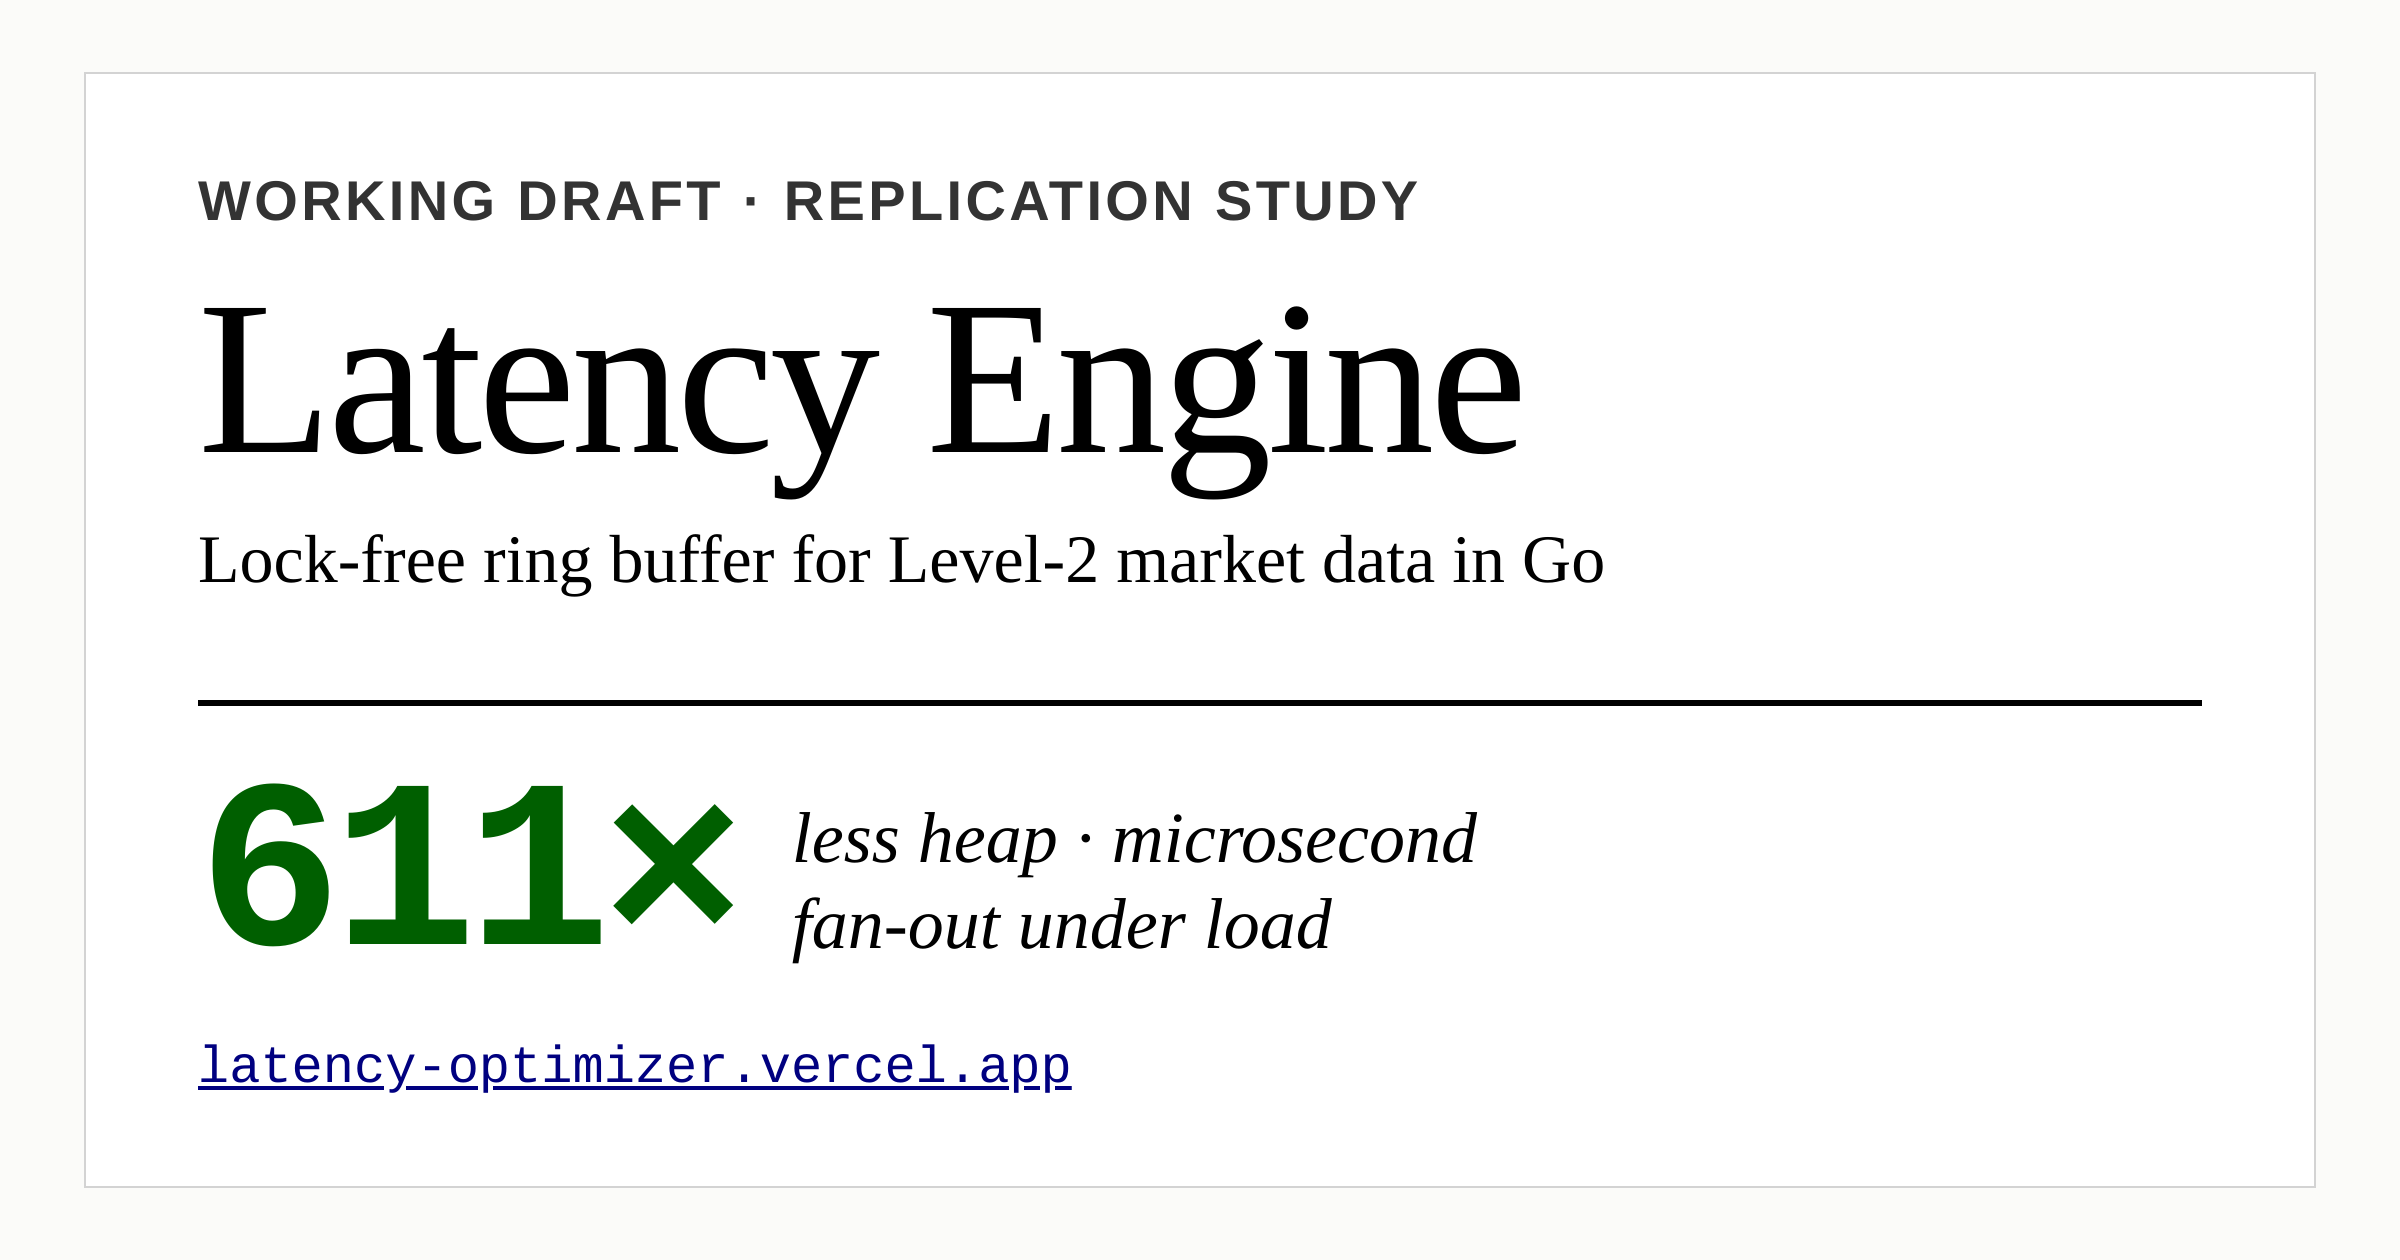
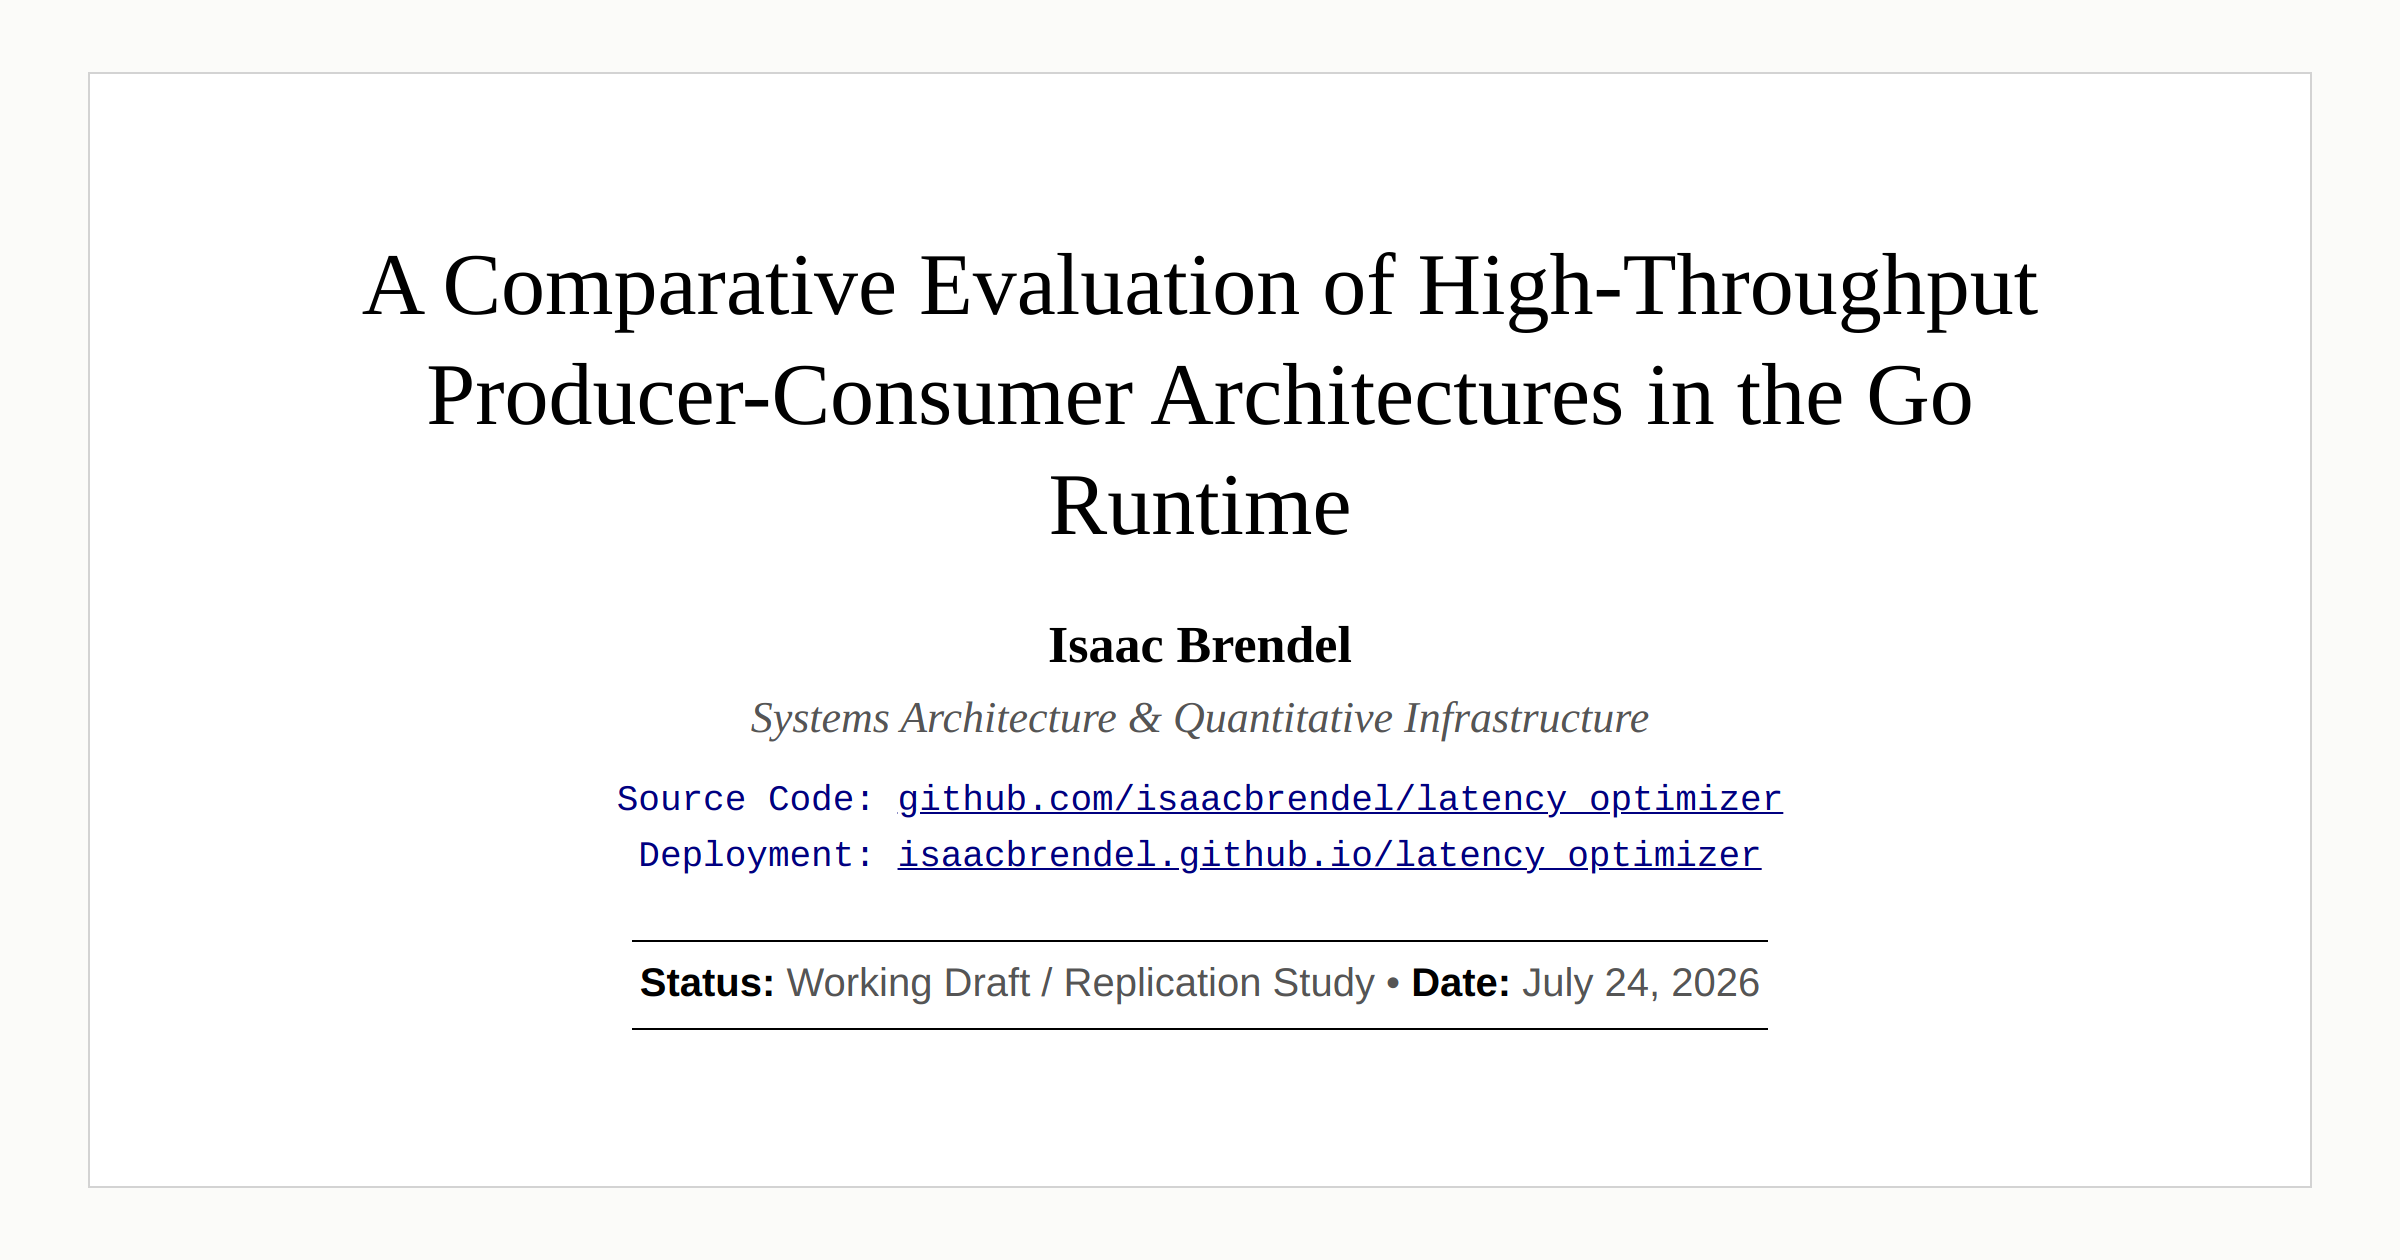
Drop metric figures; match live off-white academic title block
Featured thumb is now the site title plate only — #fbfbf9 page,
white paper, Times hierarchy, blue links, status rule — no 611×
or benchmark grid.

diff --git a/docs/assets/og-compose.html b/docs/assets/og-compose.html
@@ -4,94 +4,104 @@
   <meta charset="UTF-8" />
   <title>Latency Engine — Thumbnail</title>
   <style>
-    * { box-sizing: border-box; margin: 0; padding: 0; }
+    /* Colors sampled from live site via Playwright */
+    :root {
+      --bg-page: #fbfbf9;
+      --bg-paper: #ffffff;
+      --border: #d3d3d3;
+      --ink: #000000;
+      --mute: #555555;
+      --navy: #000080;
+      --font-serif: "Times New Roman", Times, Georgia, serif;
+      --font-sans: "Helvetica Neue", Helvetica, Arial, sans-serif;
+      --font-mono: "Courier New", Courier, Monaco, monospace;
+    }
+    * { box-sizing: border-box; margin: 0; padding: 0; border-radius: 0 !important; box-shadow: none !important; }
     html, body {
       width: 1200px;
       height: 630px;
       overflow: hidden;
-      background: #fbfbf9;
-      color: #000;
-      font-family: "Times New Roman", Times, Georgia, serif;
+      background: var(--bg-page);
+      color: var(--ink);
+      font-family: var(--font-serif);
     }
     .page {
       width: 1200px;
       height: 630px;
-      padding: 36px 42px;
+      padding: 36px 44px;
+      background: var(--bg-page);
+      display: flex;
+      align-items: center;
+      justify-content: center;
     }
     .paper {
       width: 100%;
       height: 100%;
-      background: #fff;
-      border: 1px solid #d3d3d3;
-      padding: 48px 56px 44px;
+      background: var(--bg-paper);
+      border: 1px solid var(--border);
+      padding: 48px 56px;
       display: flex;
       flex-direction: column;
-      justify-content: space-between;
-    }
-    .kicker {
-      font-family: Helvetica, Arial, sans-serif;
-      font-size: 28px;
-      font-weight: 700;
-      letter-spacing: 0.06em;
-      text-transform: uppercase;
-      color: #333;
+      align-items: center;
+      justify-content: center;
+      text-align: center;
     }
     h1 {
-      margin-top: 20px;
-      font-weight: normal;
-      font-size: 110px;
-      line-height: 0.95;
-      letter-spacing: -0.02em;
-    }
-    .sub {
-      margin-top: 18px;
-      font-size: 34px;
+      font-family: var(--font-serif);
+      font-weight: 400;
+      font-size: 44px;
       line-height: 1.25;
-      max-width: 980px;
+      max-width: 920px;
+      color: #000;
+      margin-bottom: 26px;
     }
-    .bottom {
-      border-top: 3px solid #000;
-      padding-top: 28px;
-      display: flex;
-      align-items: center;
-      gap: 28px;
-    }
-    .stat {
-      font-family: "Courier New", Courier, monospace;
-      font-size: 120px;
-      font-weight: 800;
-      color: #005f00;
-      line-height: 1;
-      letter-spacing: -0.04em;
-    }
-    .note {
-      font-size: 36px;
-      line-height: 1.2;
-      font-style: italic;
-    }
-    .url {
-      margin-top: 18px;
-      font-family: "Courier New", Courier, monospace;
+    .author {
       font-size: 26px;
-      color: #000080;
+      font-weight: 700;
+      line-height: 1.3;
+      margin-bottom: 6px;
+    }
+    .affil {
+      font-size: 22px;
+      font-style: italic;
+      color: var(--mute);
+      margin-bottom: 16px;
+    }
+    .links {
+      font-family: var(--font-mono);
+      font-size: 18px;
+      color: var(--navy);
+      margin-bottom: 26px;
+      line-height: 1.55;
+    }
+    .links a {
+      color: var(--navy);
       text-decoration: underline;
     }
+    .status {
+      font-family: var(--font-sans);
+      font-size: 20px;
+      color: var(--mute);
+      border-top: 1px solid #000;
+      border-bottom: 1px solid #000;
+      padding: 10px 4px;
+      display: inline-block;
+    }
+    .status strong { color: #000; font-weight: 700; }
   </style>
 </head>
 <body>
   <div class="page">
     <div class="paper">
-      <div>
-        <div class="kicker">Working Draft · Replication Study</div>
-        <h1>Latency Engine</h1>
-        <p class="sub">Lock-free ring buffer for Level-2 market data in Go</p>
+      <h1>A Comparative Evaluation of High-Throughput Producer-Consumer Architectures in the Go Runtime</h1>
+      <div class="author">Isaac Brendel</div>
+      <div class="affil">Systems Architecture &amp; Quantitative Infrastructure</div>
+      <div class="links">
+        Source Code: <a href="#">github.com/isaacbrendel/latency_optimizer</a><br />
+        Deployment: <a href="#">isaacbrendel.github.io/latency_optimizer</a>
       </div>
-      <div>
-        <div class="bottom">
-          <div class="stat">611×</div>
-          <div class="note">less heap · microsecond<br />fan-out under load</div>
-        </div>
-        <div class="url">latency-optimizer.vercel.app</div>
+      <div class="status">
+        <strong>Status:</strong> Working Draft / Replication Study &bull; <strong>Date:</strong> July 24, 2026
       </div>
     </div>
   </div>
